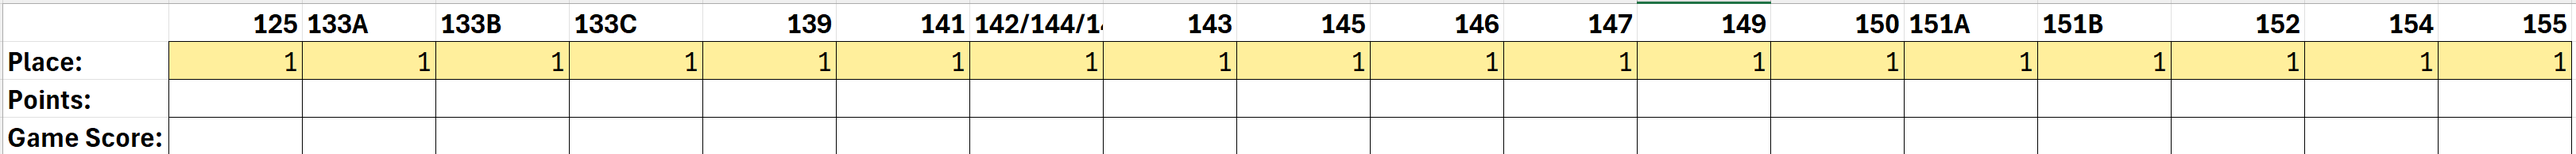
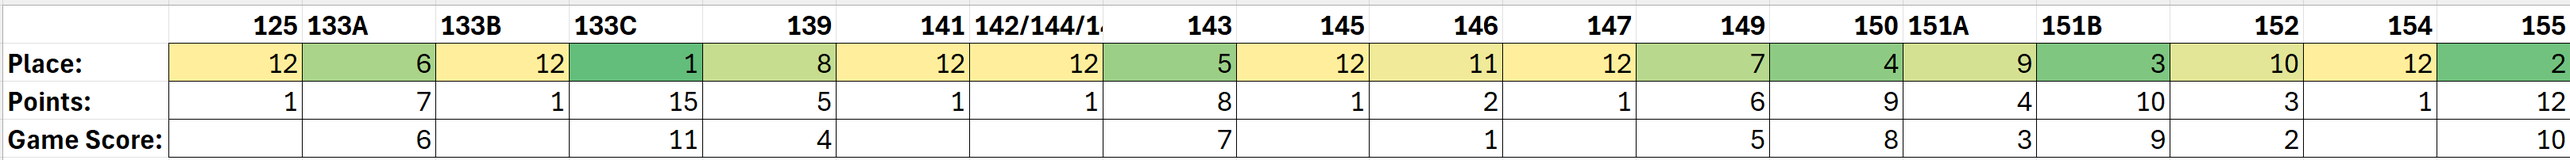
weekly updates

diff --git a/1N/index.html b/1N/index.html
@@ -55,8 +55,8 @@
     </div>
     <hr />
     <!-- Rankings Section -->
-    <div class="row" style="padding-left: 15px;">
-      <div class="col-sm-11">
+    <div class="row" style="padding-left: 15px; padding-right: 15px;">
+      <div class="col-sm-12">
         <h3 class="center-text">Game Rankings</h3>
         <p>Overall Rankings:</p>
       </div>
@@ -74,112 +74,112 @@
           </thead>
           <tbody>
             <tr>
-              <th scope="row">1</th>
-              <td>25</td>
-              <td>133C</td>
-              <td></td>
-            </tr>
-            <tr>
-              <th scope="row">2</th>
-              <td>17</td>
-              <td>133A</td>
-              <td></td>
-            </tr>
-            <tr>
-              <th scope="row">2</th>
-              <td>17</td>
-              <td>155</td>
-              <td></td>
-            </tr>
-            <tr>
-              <th scope="row">4</th>
-              <td>16</td>
+              <th scope="row">6</th>
+              <td>29</td>
               <td>125</td>
-              <td></td>
+              <td>Josh, Jayden</td>
             </tr>
             <tr>
-              <th scope="row">4</th>
-              <td>16</td>
-              <td>150</td>
-              <td></td>
-            </tr>
-            <tr>
-              <th scope="row">4</th>
-              <td>16</td>
-              <td>144</td>
-              <td></td>
-            </tr>
-            <tr>
-              <th scope="row">7</th>
-              <td>13</td>
-              <td>139</td>
-              <td></td>
-            </tr>
-            <tr>
-              <th scope="row">7</th>
-              <td>13</td>
-              <td>143</td>
-              <td></td>
-            </tr>
-            <tr>
-              <th scope="row">9</th>
-              <td>12</td>
-              <td>151B</td>
-              <td></td>
-            </tr>
-            <tr>
-              <th scope="row">10</th>
-              <td>8</td>
-              <td>133B</td>
-              <td></td>
-            </tr>
-            <tr>
-              <th scope="row">10</th>
-              <td>8</td>
-              <td>149</td>
-              <td></td>
-            </tr>
-            <tr>
-              <th scope="row">12</th>
-              <td>7</td>
-              <td>146</td>
-              <td></td>
-            </tr>
-            <tr>
-              <th scope="row">13</th>
-              <td>6</td>
-              <td>151A</td>
-              <td></td>
+              <th scope="row">3</th>
+              <td>40</td>
+              <td>133A</td>
+              <td>Timmy, Pieter</td>
             </tr>
             <tr>
               <th scope="row">14</th>
-              <td>5</td>
-              <td>152</td>
-              <td></td>
+              <td>11</td>
+              <td>133B</td>
+              <td>Dave, Will</td>
             </tr>
             <tr>
-              <th scope="row">15</th>
-              <td>3</td>
+              <th scope="row">1</th>
+              <td>46</td>
+              <td>133C</td>
+              <td>Nader, Russ</td>
+            </tr>
+            <tr>
+              <th scope="row">5</th>
+              <td>31</td>
+              <td>139</td>
+              <td>H(i/u)ggins</td>
+            </tr>
+            <tr>
+              <th scope="row">11</th>
+              <td>17</td>
               <td>141</td>
-              <td></td>
+              <td>Tommy, Daniel</td>
             </tr>
             <tr>
-              <th scope="row">15</th>
-              <td>3</td>
+              <th scope="row">16</th>
+              <td>6</td>
               <td>142/44/48</td>
-              <td></td>
+              <td>Singles</td>
             </tr>
             <tr>
-              <th scope="row">15</th>
-              <td>3</td>
+              <th scope="row">8</th>
+              <td>22</td>
+              <td>143</td>
+              <td>Marco, Eric</td>
+            </tr>
+            <tr>
+              <th scope="row">16</th>
+              <td>6</td>
               <td>145</td>
-              <td></td>
+              <td>Sean, Cole</td>
             </tr>
             <tr>
-              <th scope="row">15</th>
-              <td>3</td>
+              <th scope="row">13</th>
+              <td>14</td>
+              <td>146</td>
+              <td>Cade, Leo</td>
+            </tr>
+            <tr>
+              <th scope="row">16</th>
+              <td>6</td>
               <td>147</td>
-              <td></td>
+              <td>Jack, Kedren</td>
+            </tr>
+            <tr>
+              <th scope="row">12</th>
+              <td>16</td>
+              <td>149</td>
+              <td>Brian, Chris</td>
+            </tr>
+            <tr>
+              <th scope="row">4</th>
+              <td>39</td>
+              <td>150</td>
+              <td>Cole, Colin</td>
+            </tr>
+            <tr>
+              <th scope="row">8</th>
+              <td>22</td>
+              <td>151A</td>
+              <td>James, Runde</td>
+            </tr>
+            <tr>
+              <th scope="row">10</th>
+              <td>19</td>
+              <td>151B</td>
+              <td>Luke^2</td>
+            </tr>
+            <tr>
+              <th scope="row">8</th>
+              <td>15</td>
+              <td>152</td>
+              <td>Manny, Justin</td>
+            </tr>
+            <tr>
+              <th scope="row">7</th>
+              <td>25</td>
+              <td>154</td>
+              <td>Will, Matthew</td>
+            </tr>
+            <tr>
+              <th scope="row">2</th>
+              <td>42</td>
+              <td>155</td>
+              <td>Noah, Gordon</td>
             </tr>
           </tbody>
         </table>

diff --git a/1N/rankings/index.html b/1N/rankings/index.html
@@ -35,6 +35,24 @@
     <!-- TODO: take equally sized images for rankings -->
     <div class="row row-box" style="padding: 15px;">
       <div class="col-md-12">
+        <p>9/22/2024:</p>
+        <div>
+          <img src="https://www.patrickschlosser.space/1N/assets/9.22.rankings.png" height="75" width="1000" />
+        </div>
+      </div>
+    </div>
+    <hr />
+    <div class="row row-box" style="padding: 15px;">
+      <div class="col-md-12">
+        <p>9/15/2024:</p>
+        <div>
+          <img src="https://www.patrickschlosser.space/1N/assets/9.15.rankings.png" height="75" width="1000" />
+        </div>
+      </div>
+    </div>
+    <hr />
+    <div class="row row-box" style="padding: 15px;">
+      <div class="col-md-12">
         <p>9/8/2024:</p>
         <div>
           <img src="https://www.patrickschlosser.space/1N/assets/9.8.rankings.png" height="75" width="1000" />
